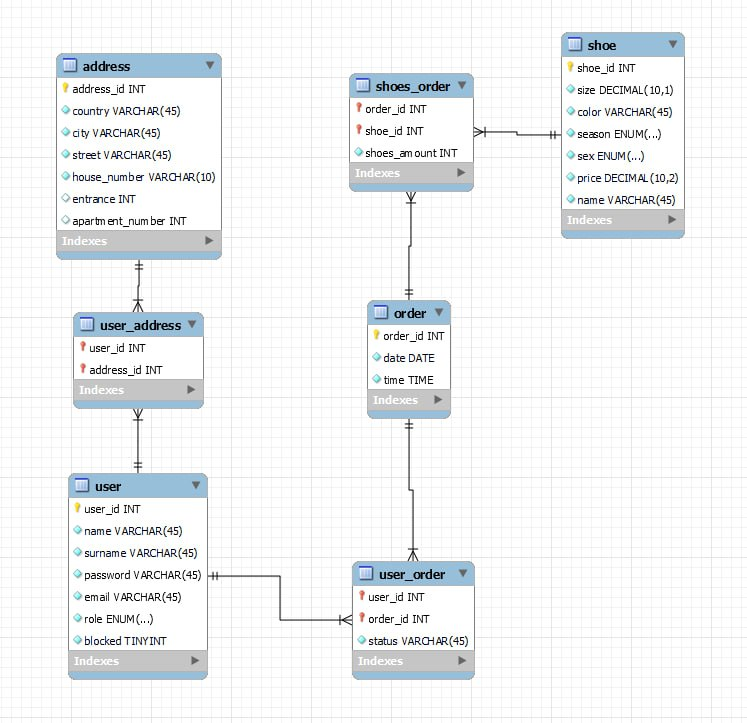
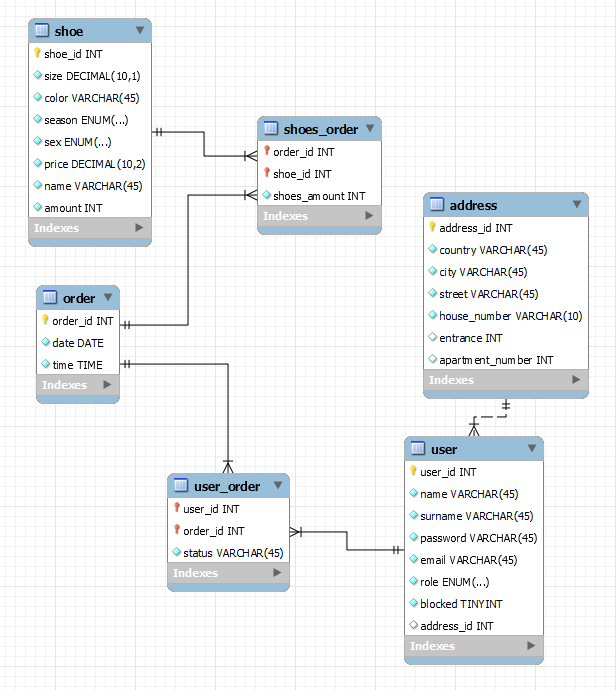
react and spring test

diff --git a/src/main/java/ua/nure/shoestore/entity/User.java b/src/main/java/ua/nure/shoestore/entity/User.java
@@ -12,7 +12,7 @@ public class User {
     private String email;
     private String password;
     private Role role;
-    private List<Long> address;
+    private Long address_id;
     private boolean blocked;
 
     public long getUser_id() {
@@ -63,12 +63,12 @@ public class User {
         this.role = role;
     }
 
-    public List<Long> getAddress() {
-        return address;
+    public Long getAddress_id() {
+        return address_id;
     }
 
-    public void setAddress(List<Long> address) {
-        this.address = address;
+    public void setAddress_id(Long address_id) {
+        this.address_id = address_id;
     }
 
     public boolean isBlocked() {
@@ -84,12 +84,12 @@ public class User {
         if (this == o) return true;
         if (o == null || getClass() != o.getClass()) return false;
         User user = (User) o;
-        return user_id == user.user_id && blocked == user.blocked && Objects.equals(name, user.name) && Objects.equals(surname, user.surname) && Objects.equals(email, user.email) && Objects.equals(password, user.password) && role == user.role && Objects.equals(address, user.address);
+        return user_id == user.user_id && blocked == user.blocked && name.equals(user.name) && surname.equals(user.surname) && email.equals(user.email) && password.equals(user.password) && role == user.role && Objects.equals(address_id, user.address_id);
     }
 
     @Override
     public int hashCode() {
-        return Objects.hash(user_id, name, surname, email, password, role, address, blocked);
+        return Objects.hash(user_id, name, surname, email, password, role, address_id, blocked);
     }
 
     @Override
@@ -101,7 +101,7 @@ public class User {
                 ", email='" + email + '\'' +
                 ", password='" + password + '\'' +
                 ", role=" + role +
-                ", address=" + address +
+                ", address_id=" + address_id +
                 ", blocked=" + blocked +
                 '}';
     }

diff --git a/src/main/java/ua/nure/shoestore/controller/AuthenticationController.java b/src/main/java/ua/nure/shoestore/controller/AuthenticationController.java
@@ -21,9 +21,8 @@ public class AuthenticationController {
     }
 
     @PostMapping(value={"/authentication"})
-    public String addUser(@RequestBody String name){
-        System.out.println(name);
-        //service.addUser(user);
+    public String addUser(@RequestBody User user){
+        service.addUser(user);
         return "New student added";
     }
 
